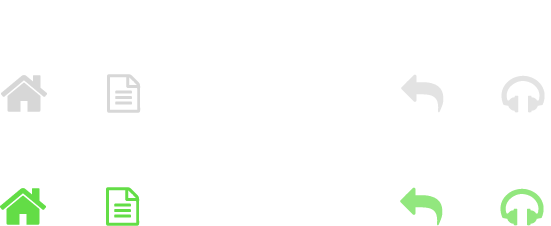
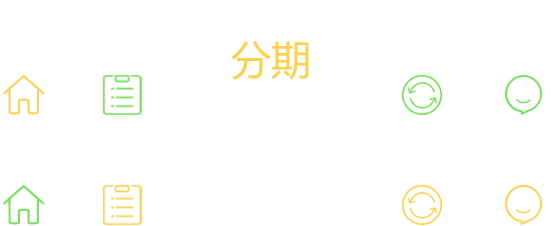
修改手机端图片问题  及家装分期页面计算器问题

diff --git a/webapp/res/css/core.css b/webapp/res/css/core.css
@@ -137,8 +137,20 @@
 	text-align:center;
 	padding:5px 0px 2px;
 }
-.ui-nav .ui-nav-ul li a:active{
-	background:#efefef;
+.ui-nav .ui-nav-ul li a:active p{
+	color:#ffd04d;
+}
+.ui-nav .ui-nav-ul #li_0 a:active .nav-ico{
+	background-position:0px -35px;
+}
+.ui-nav .ui-nav-ul #li_1 a:active .nav-ico{
+	background-position:-50px -91px;
+}
+.ui-nav .ui-nav-ul #li_3 a:active .nav-ico{
+	background-position:-200px -91px;
+}
+.ui-nav .ui-nav-ul #li_4 a:active .nav-ico{
+	background-position:-250px -91px;
 }
 .ui-nav .ui-nav-ul li a p{
 	font-size:10px;
@@ -147,7 +159,7 @@
 	line-height:16px;
 }
 .ui-nav .ui-nav-ul li.selected a .nav-ico{
-	background-position:0px -93px;
+	background-position:0px -35px;
 }
 .ui-nav .ui-nav-ul li.selected a p{
 	color:#61dd43;
@@ -766,9 +778,11 @@
 .ui-nav .ui-nav-ul li.nav-middle a{left:0;right:0;width:83px;background:url('../images/ipd_bimg.png') no-repeat center 0px;background-size:cover;top:-15px;margin:0 auto;}
 .ui-nav .ui-nav-ul li a p{color:#61dd43;}
 .ui-nav .ui-nav-ul li.selected a p{color:#ffd04d;}
-.nav-ico{height:23px;}
 
-.ui-nav .ui-nav-ul li.selected a .nav-ico{background-position:0 -91px;}
+.nav-ico{height:23px;}
+.nav-ico.ico-home{background-position:0 -91px;}
+
+.ui-nav .ui-nav-ul li.selected a .nav-ico{background-position:0 -35px;}
 .nav-ico.ico-service{background-position:-250px -36px;}
 
 .staging_div1{background-color:#fff;border-top:2px solid #f8f8f8;border-bottom:2px solid #f8f8f8;}

diff --git a/anjia/js/staging.js b/anjia/js/staging.js
@@ -30,10 +30,10 @@ $(function(){
 	function countFee(allprice,time){
 		var numarr = [3,6,6,12,18,24,36];
 		var ratearr = [0,0.04,0.04,0.07,0.1,0.13,0.16];
-
-		var rate = ratearr[time] * allprice;
-		var all = allprice + rate;
-		var mouthprice = allprice / numarr[time];
+		var allprice_l=allprice*10000;
+		var rate = ratearr[time] * allprice_l;
+		var all = allprice_l + rate;
+		var mouthprice = allprice_l / numarr[time];
 		var obj = {};
 		obj.all = all;
 		obj.mouth = mouthprice.toFixed(2);
@@ -63,10 +63,10 @@ $(document).ready(function(){
 	function countFee2(allprice,time){
 		var numarr = [3,6,6,12,18,24,36];
 		var ratearr = [0,0.04,0.07,0.1,0.13,0.16];
-
-		var rate = ratearr[time] * allprice;
-		var all = allprice + rate;
-		var mouthprice = allprice / numarr[time];
+		var allprice_l=allprice*10000;
+		var rate = ratearr[time] * allprice_l;
+		var all = allprice_l + rate;
+		var mouthprice = allprice_l / numarr[time];
 		var obj = {};
 		obj.all = all;
 		obj.mouth = mouthprice.toFixed(2);
@@ -84,8 +84,8 @@ $(document).ready(function(){
 
 			//$("#capitaltext").html(allprice.toFixed(2));
 			//$("#alltext").html(obj.all);
-			$("#feetext3").html(obj.rate+"万元");
-			$("#mouthtext3").html(obj.mouth+"万元");
+			$("#feetext3").html(obj.rate+"元");
+			$("#mouthtext3").html(obj.mouth+"元");
 		}
 	}
 	

diff --git a/webapp/index/index.html b/webapp/index/index.html
@@ -33,7 +33,7 @@
             <div class="index-part-list clearfix">
             	<a href="../mystaging/index.html">
             	<div class="index-part-div1">
-            		<div class="ipd_left"><img  src="../res/images/lico1.png"/></div>
+            		<div class="ipd_left"><img  src="../res/images/ico6.png"/></div>
             		<div class="ipd_right">
             			<h4 class="h4">家装分期</h4>
             			<ul class="ul">

diff --git a/webapp/mystaging/index.html b/webapp/mystaging/index.html
@@ -83,7 +83,7 @@
                     <p>首页</p>
                 </a>
             </li>
-            <li id="li_1">
+            <li id="li_1" >
             	<a href="javascript:void(0);">
                     <i class="nav-ico ico-order"></i>
                     <p>订单</p>
